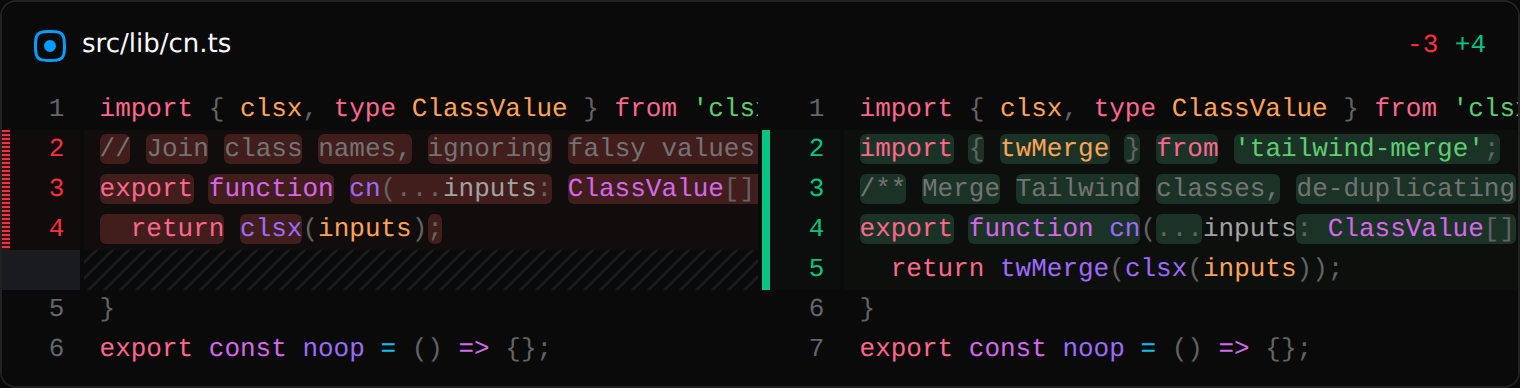
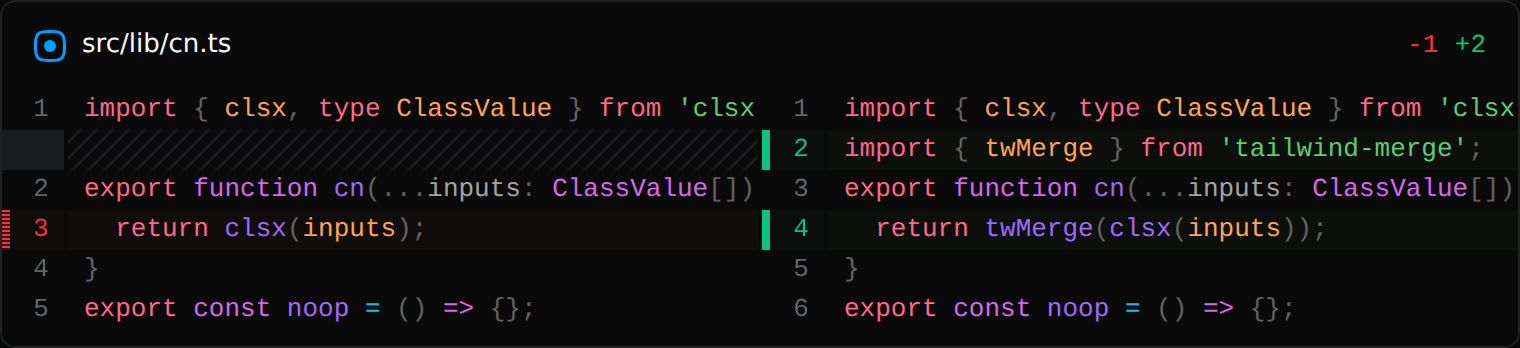
spike(git): whole-line diff tint (lineDiffType: 'none') + realistic preview sample (#49)
* spike(workspace): evaluate @pierre/trees for the file tree

Add a scoped, flag-gated spike (USE_PIERRE_TREE, default off) that renders
the Explorer file tree via @pierre/trees instead of the in-house FileTree.
Wires data/resetPaths, selection->open, inline rename and create, a
token-styled right-click menu, and design-token theming over the library's
--trees-*-override variables.

Verified: install (1.0.0-beta.4, Apache-2.0), tsc -b clean against the real
types, and vite build bundles cleanly (flag on). Live GUI behavior is not yet
exercised. Findings and open gaps in docs/pierre-trees-spike.md.

* spike(workspace): enable Pierre colored file-type icons in tree spike

Switch the @pierre/trees spike to the built-in colored icon set
(set: 'complete', colored: true) so file rows show Pierre's per-type
chromatic glyphs. Intentionally overrides DESIGN.md 11 (Lucide-only /
currentColor) for this surface; documented in docs/pierre-trees-spike.md.

Verified: tsc -b clean and vite build bundles the colored sprite (flag on).

* spike(workspace): add isolated preview harness + screenshot for trees spike

Headless preview that renders the @pierre/trees file tree in isolation with
the design tokens and colored built-in icons, used to capture tree-spike.png
for visual verification. Build output (spike-preview/dist) stays gitignored.

* spike(workspace): conform tree spike to official trees.software docs

Reviewed the full @pierre/trees documentation and corrected the theming to
[…]

diff --git a/marudesk/diff-preview/main.tsx b/marudesk/diff-preview/main.tsx
@@ -3,20 +3,21 @@ import { StrictMode, type CSSProperties } from 'react';
 import { createRoot } from 'react-dom/client';
 import { PatchDiff } from '@pierre/diffs/react';
 
-// A realistic unified diff to exercise syntax highlighting + add/remove/context.
+// A realistic unified diff: a pure addition (import), a context line, and a
+// genuine 1:1 line edit. This keeps intra-line pairing meaningful so word-alt
+// boxes exactly the inserted `twMerge( … )` wrapper and leaves unchanged code
+// (including `inputs`) un-boxed — rather than the misleading cross-line token
+// match a full-block replacement would produce.
 const SAMPLE_PATCH = `diff --git a/src/lib/cn.ts b/src/lib/cn.ts
 index 1234567..89abcde 100644
 --- a/src/lib/cn.ts
 +++ b/src/lib/cn.ts
-@@ -1,9 +1,11 @@
+@@ -1,7 +1,8 @@
  import { clsx, type ClassValue } from 'clsx';
 +import { twMerge } from 'tailwind-merge';
 
--// Join class names, ignoring falsy values.
--export function cn(...inputs: ClassValue[]): string {
+ export function cn(...inputs: ClassValue[]): string {
 -  return clsx(inputs);
-+/** Merge Tailwind classes, de-duplicating conflicting utilities. */
-+export function cn(...inputs: ClassValue[]): string {
 +  return twMerge(clsx(inputs));
  }
 
@@ -50,8 +51,14 @@ const DIFF_CHROME_STYLE = {
   '--diffs-fg-number-override': 'var(--text-tertiary)',
 } as CSSProperties;
 
-const diffStyle =
-  new URLSearchParams(location.search).get('style') === 'split' ? 'split' : 'unified';
+const params = new URLSearchParams(location.search);
+const diffStyle = params.get('style') === 'split' ? 'split' : 'unified';
+const ld = params.get('linediff');
+// Default matches the DiffViewer spike: 'none' tints the whole changed line
+// (no intra-line boxes) — calmer and consistent with the in-house DiffBlock.
+// Pass ?linediff=word-alt|word|char to compare the intra-line emphasis modes.
+const lineDiffType: 'word' | 'word-alt' | 'char' | 'none' =
+  ld === 'char' || ld === 'word' || ld === 'word-alt' ? ld : 'none';
 
 createRoot(mount).render(
   <StrictMode>
@@ -61,7 +68,7 @@ createRoot(mount).render(
         theme: 'pierre-dark',
         preferredHighlighter: 'shiki-js',
         diffStyle,
-        lineDiffType: 'word',
+        lineDiffType,
         diffIndicators: 'bars',
         expandUnchanged: true,
         stickyHeader: true,

diff --git a/marudesk/src/features/git/DiffViewer.tsx b/marudesk/src/features/git/DiffViewer.tsx
@@ -188,9 +188,12 @@ export function DiffViewer({
                   theme: 'pierre-dark',
                   preferredHighlighter: 'shiki-js',
                   diffStyle,
-                  // Word-level intra-line highlight, bar indicators to match the
-                  // in-house diff language, and a pinned file header.
-                  lineDiffType: 'word',
+                  // Highlight the whole changed line (the line-level add/remove
+                  // tint) rather than boxing the changed tokens within it. This
+                  // is calmer and matches the in-house DiffBlock, which also
+                  // tints by line. ('word' / 'word-alt' / 'char' add intra-line
+                  // emphasis boxes; see docs for the comparison.)
+                  lineDiffType: 'none',
                   diffIndicators: 'bars',
                   expandUnchanged: true,
                   stickyHeader: true,

diff --git a/marudesk/docs/pierre-diffs-spike.md b/marudesk/docs/pierre-diffs-spike.md
@@ -20,7 +20,7 @@ direct feed:
     theme: 'pierre-dark',
     preferredHighlighter: 'shiki-js',
     diffStyle,                 // 'unified' | 'split', toggled in the overlay header
-    lineDiffType: 'word',      // word-level intra-line highlight
+    lineDiffType: 'none',      // tint the whole changed line (no intra-line boxes)
     diffIndicators: 'bars',    // matches the in-house left-bar diff language
     expandUnchanged: true,     // expand context where the patch provides it
     stickyHeader: true,        // pin the file header while scrolling
@@ -30,7 +30,7 @@ direct feed:
 ```
 
 The result is a syntax-highlighted diff with a pinned file header (`-N +N`
-stats), word-level change boxes, and bar indicators
+stats), whole-line add/remove tint, and bar indicators
 (`diff-preview/diff-spike.png` unified, `diff-preview/diff-split.png` split).
 
 ### Leveraging the library + design integration
@@ -45,11 +45,17 @@ and fixes the design:
   `-N +N`), so the overlay header drops the redundant path and carries only the
   staged badge, the unified/split toggle, and close. `stickyHeader: true` pins
   the file header while scrolling.
-- **`lineDiffType: 'word'`** boxes the exact changed tokens within a modified
-  line; **`diffIndicators: 'bars'`** matches the in-house left-bar look.
-- **Fuller token chrome.** `DIFF_CHROME_STYLE` now maps line/number/selection
-  backgrounds and the word-emphasis tint (a stronger token via `color-mix`, so
-  every value stays token-driven — no literal hex).
+- **`lineDiffType: 'none'`** tints the whole changed line instead of boxing the
+  changed tokens within it — calmer, and consistent with the in-house DiffBlock
+  which also highlights by line. The intra-line modes remain available:
+  `'word-alt'` (library default) joins single-space gaps into one continuous box
+  via `pushOrJoinSpan`; `'word'` leaves a gap at every space; `'char'` diffs by
+  character (noisier on unrelated lines). See the `?linediff=` comparison
+  captures (`diff-preview/linediff-none.png` vs `linediff-word-alt.png`).
+  **`diffIndicators: 'bars'`** matches the in-house left-bar look.
+- **Fuller token chrome.** `DIFF_CHROME_STYLE` maps line/number/selection
+  backgrounds onto tokens (and a `color-mix` word-emphasis tint for the
+  intra-line modes), so every value stays token-driven — no literal hex.
 
 Not yet wired (clear next steps): per-hunk `diffAcceptRejectHunk` for an
 interactive accept/reject review, `CodeView` for an all-changed-files scroll, the
